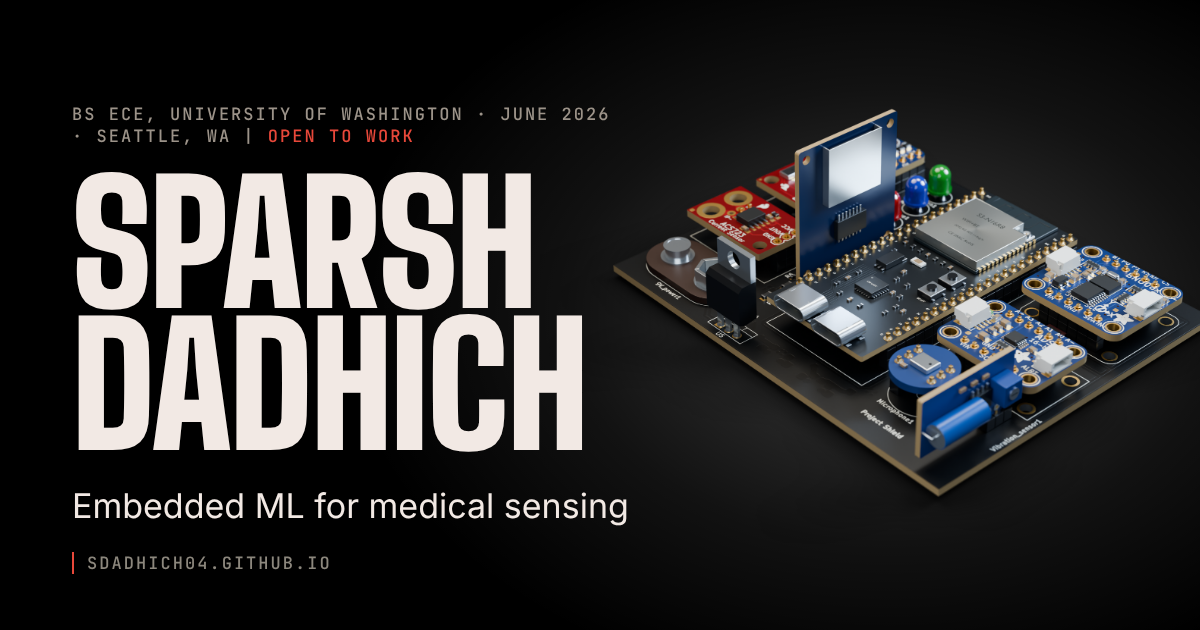
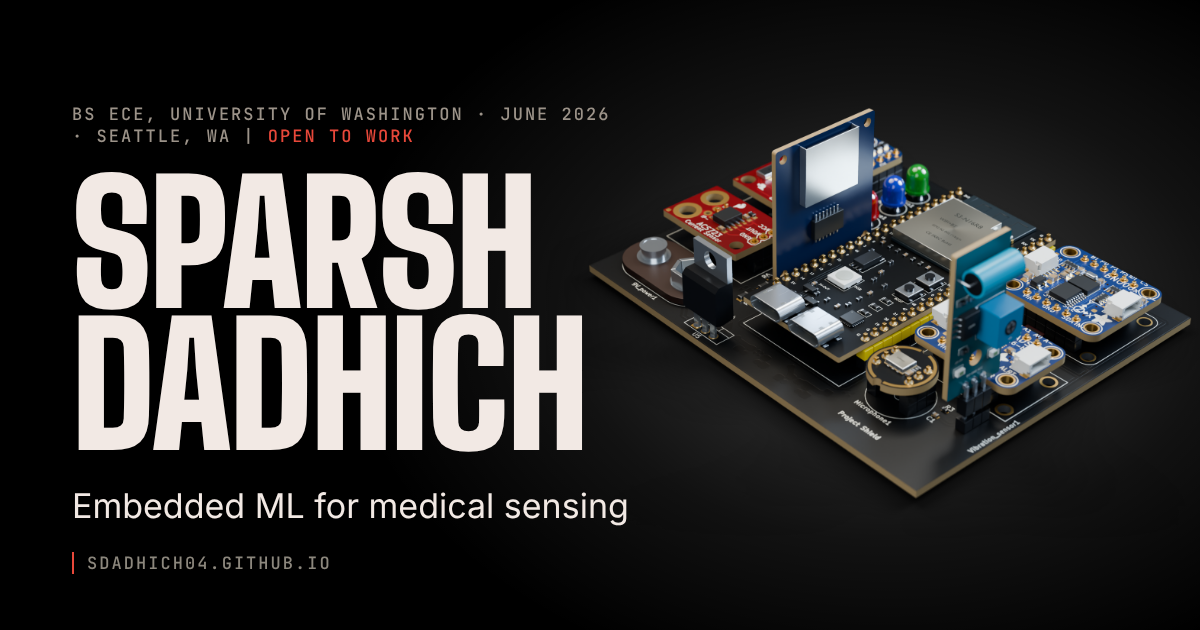
Use the revised board render in the hero and link preview

Changed region(s): [[0.4933, 0.1508, 1.0, 0.7841]]

diff --git a/src/assets/css/components.css b/src/assets/css/components.css
@@ -166,19 +166,19 @@
   .hero__cred { margin-top: 0; }
 
   /* The render stays centred on the right column but grows until the board's left corner
-     nearly meets the end of the name. In the wide render the board spans 8.2 % → 96.2 % of the
-     image width, so its left corner sits 0.4176 × width left of centre and its right corner
-     0.462 × width right of centre. The width is the smallest of:
+     nearly meets the end of the name. In the wide render the board spans 7.1 % → 92.9 % of the
+     image width (centred), so each side corner sits 0.4292 × width from the centre. The width is
+     the smallest of:
        1. the board's left corner 1.5rem past the name (name width = 3.0625 × --fs-hero);
        2. the board's right corner 2rem inside the viewport;
-       3. the hero's height (the render is 1844 × 1207). */
+       3. the hero's height (the render is 1835 × 1202). */
   .hero__grid { container-type: inline-size; }
   .hero__render {
-    inset: auto; left: 50%; top: 50%; translate: -50% -50%; aspect-ratio: 1844 / 1207;
+    inset: auto; left: 50%; top: 50%; translate: -50% -50%; aspect-ratio: 1835 / 1202;
     width: min(
-      (75cqw - 0.875rem - 3.0625 * var(--fs-hero)) / 0.4176,
-      (50vw - 25cqw - 0.625rem - 2rem) / 0.462,
-      (max(100svh, 600px) - var(--header-h) - 4rem) * 1.528
+      (75cqw - 0.875rem - 3.0625 * var(--fs-hero)) / 0.4292,
+      (50vw - 25cqw - 0.625rem - 2rem) / 0.4292,
+      (max(100svh, 600px) - var(--header-h) - 4rem) * 1.527
     );
   }
   .hero__render::before { top: 50%; bottom: auto; left: -22%; right: -22%; translate: 0 -50%; aspect-ratio: 1.75; }
